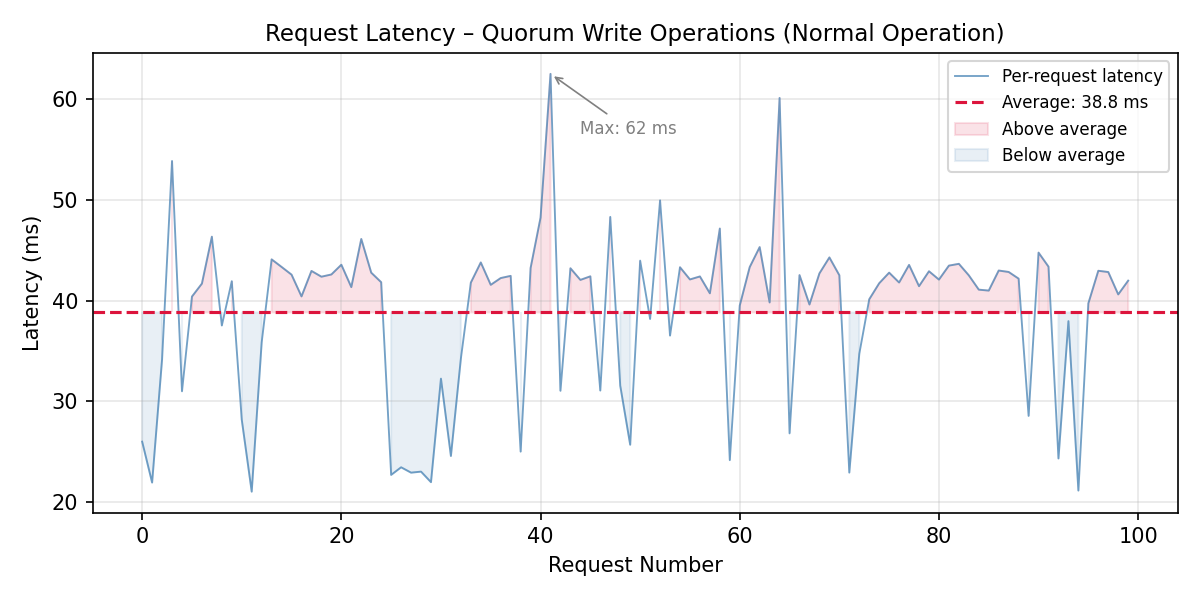
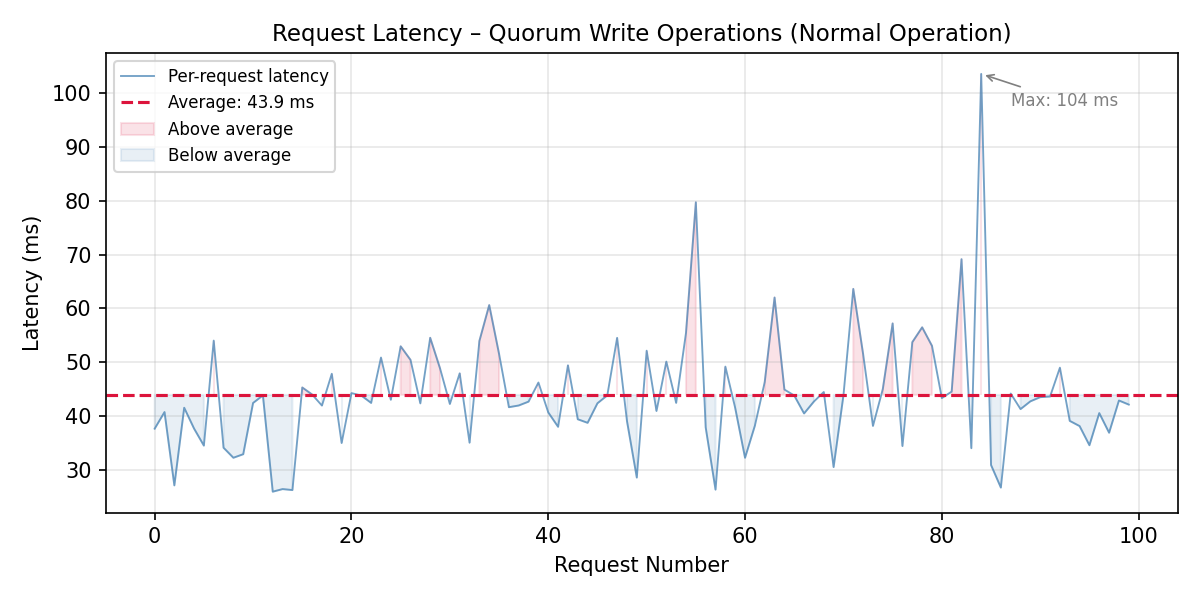
Fix docker

diff --git a/experiments/experiment_partition.py b/experiments/experiment_partition.py
@@ -9,7 +9,7 @@ NODES = {
 }
 
 # Numele retelei create de docker-compose
-NETWORK_NAME = "resilience-raft-project_raft_network"
+NETWORK_NAME = "raft_network"
 
 def get_cluster_status():
     status_report = {}
@@ -30,12 +30,12 @@ def find_leader(status_report):
     return None
 
 def isolate_node(node_name):
-    container_name = f"resilience-raft-project-{node_name}-1"
+    container_name = node_name
     print(f"\n[!] CHAOS: Disconnecting {container_name} from network '{NETWORK_NAME}'...")
     subprocess.run(["docker", "network", "disconnect", NETWORK_NAME, container_name], capture_output=True)
 
 def heal_network(node_name):
-    container_name = f"resilience-raft-project-{node_name}-1"
+    container_name = node_name
     print(f"\n[+] HEALING: Reconnecting {container_name} to network '{NETWORK_NAME}'...")
     subprocess.run(["docker", "network", "connect", NETWORK_NAME, container_name], capture_output=True)
     # Add a small delay to allow heartbeats to propagate and states to settle

diff --git a/src/watchdog_remediation.py b/src/watchdog_remediation.py
@@ -3,9 +3,9 @@ import subprocess
 
 # Numele containerelor noastre
 CONTAINERS = [
-    "resilience-raft-project-node1-1",
-    "resilience-raft-project-node2-1",
-    "resilience-raft-project-node3-1"
+    "node1",
+    "node2",
+    "node3"
 ]
 
 def check_and_remediate():

diff --git a/experiments/experiment_negative.py b/experiments/experiment_negative.py
@@ -21,11 +21,11 @@ def get_cluster_status():
 
 def kill_node(node_name):
     print(f"[!] INJECTING FAULT: Killing {node_name}...")
-    subprocess.run(["docker", "stop", f"resilience-raft-project-{node_name}-1"], capture_output=True)
+    subprocess.run(["docker", "stop", node_name], capture_output=True)
 
 def start_node(node_name):
     print(f"[+] RECOVERING: Starting {node_name}...")
-    subprocess.run(["docker", "start", f"resilience-raft-project-{node_name}-1"], capture_output=True)
+    subprocess.run(["docker", "start", node_name], capture_output=True)
 
 def run_majority_loss_experiment():
     print("=== Starting Majority Loss (Negative) Experiment ===")

diff --git a/experiments/experiments.py b/experiments/experiments.py
@@ -28,13 +28,13 @@ def find_leader(status_report):
 
 def kill_node(node_name):
     print(f"\n[!] INJECTING FAULT: Killing {node_name} container...")
-    container_name = f"resilience-raft-project-{node_name}-1"
+    container_name = node_name
     subprocess.run(["docker", "stop", container_name], capture_output=True)
     print(f"[!] {node_name} is down.")
 
 def start_node(node_name):
     print(f"\n[+] RECOVERING: Starting {node_name} container...")
-    container_name = f"resilience-raft-project-{node_name}-1"
+    container_name = node_name
     subprocess.run(["docker", "start", container_name], capture_output=True)
     print(f"[+] {node_name} is back up.")
 

diff --git a/experiments/experiment_remediation.py b/experiments/experiment_remediation.py
@@ -21,7 +21,7 @@ def get_cluster_status():
 
 def kill_node(node_name):
     print(f"\n[!] INJECTING FAULT: Killing {node_name} container...")
-    subprocess.run(["docker", "stop", f"resilience-raft-project-{node_name}-1"], capture_output=True)
+    subprocess.run(["docker", "stop", node_name], capture_output=True)
 
 def run_remediation_test():
     print("=== Starting Automated Remediation Test ===")